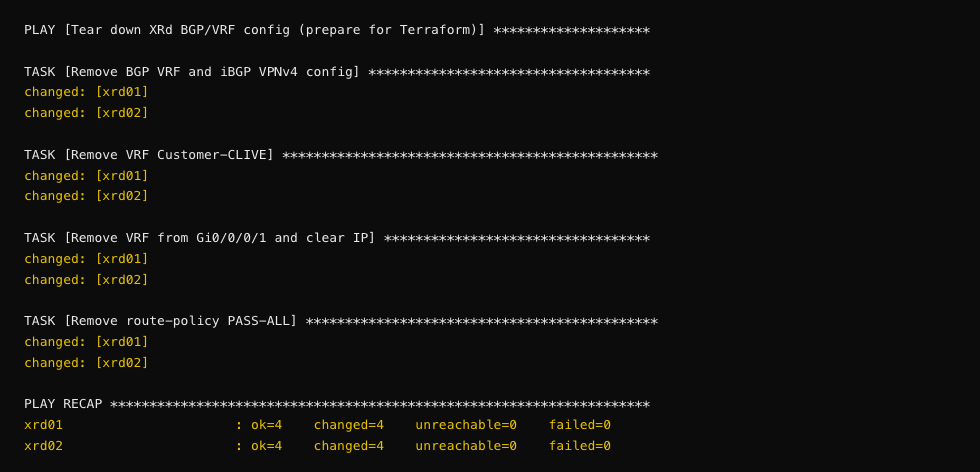
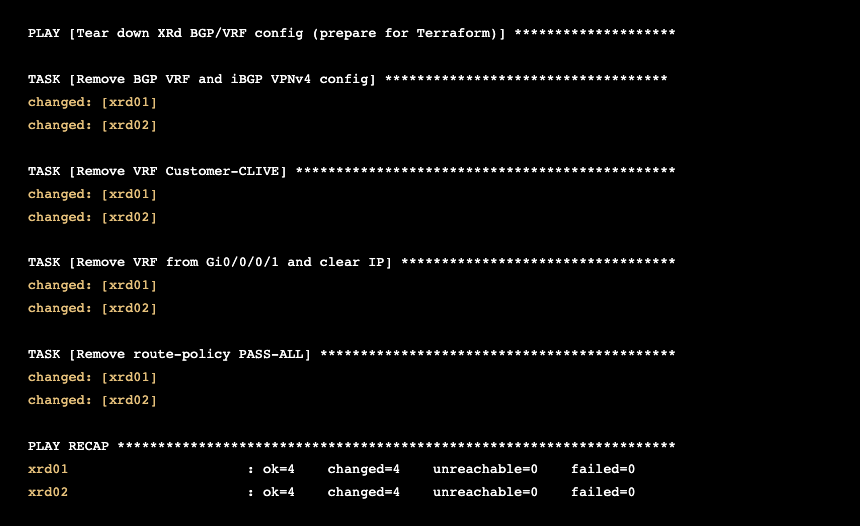
v1.1.15 — Fix task4-teardown-output colors to match style guide

diff --git a/images/task4-teardown-output.html b/images/task4-teardown-output.html
@@ -1,0 +1,42 @@
+<!DOCTYPE html>
+<html lang="en">
+<head>
+<meta charset="UTF-8" />
+<meta name="viewport" content="width=1200" />
+<title>task4-teardown-output</title>
+<style>
+  @import url('https://fonts.googleapis.com/css2?family=JetBrains+Mono:wght@400;600&display=swap');
+  * { box-sizing: border-box; margin: 0; padding: 0; }
+  html, body { overflow: hidden; }
+  body { background: #000000; font-family: 'JetBrains Mono', 'Courier New', monospace; }
+  .terminal { background: #000000; width: 860px; padding: 22px 28px 22px 28px; font-size: 13.5px; line-height: 1.7; }
+  .wh  { color: #ffffff; }
+  .chg { color: #e5c07b; }
+</style>
+</head>
+<body>
+<div class="terminal">
+<pre><span class="wh">PLAY [Tear down XRd BGP/VRF config (prepare for Terraform)] ********************
+
+TASK [Remove BGP VRF and iBGP VPNv4 config] ***********************************</span>
+<span class="chg">changed: [xrd01]
+changed: [xrd02]</span>
+
+<span class="wh">TASK [Remove VRF Customer-CLIVE] ***********************************************</span>
+<span class="chg">changed: [xrd01]
+changed: [xrd02]</span>
+
+<span class="wh">TASK [Remove VRF from Gi0/0/0/1 and clear IP] **********************************</span>
+<span class="chg">changed: [xrd01]
+changed: [xrd02]</span>
+
+<span class="wh">TASK [Remove route-policy PASS-ALL] ********************************************</span>
+<span class="chg">changed: [xrd01]
+changed: [xrd02]</span>
+
+<span class="wh">PLAY RECAP *********************************************************************</span>
+<span class="chg">xrd01</span>                      <span class="wh">: ok=4    changed=4    unreachable=0    failed=0</span>
+<span class="chg">xrd02</span>                      <span class="wh">: ok=4    changed=4    unreachable=0    failed=0</span></pre>
+</div>
+</body>
+</html>

diff --git a/CHANGELOG.md b/CHANGELOG.md
@@ -18,6 +18,19 @@ primer documents into dedicated files. Added student lab access guide.
 
 ---
 
+### 1.1.15 — Fix task4-teardown-output to Match Style Guide
+
+Rebuilt `task4-teardown-output` from scratch — original PNG had a dark grey
+background instead of `#000000` and incorrect yellow values. Created missing
+HTML source file.
+
+| File | Description |
+|------|-------------|
+| `images/task4-teardown-output.html` | Created (was missing) — Ansible teardown output |
+| `images/task4-teardown-output.png` | Corrected colors: `#000000` bg, `#e5c07b` changed, `#ffffff` headers |
+
+---
+
 ### 1.1.14 — Style-Guide Terminal Images for Ansible Primer and Git Primer
 
 Converted fenced code blocks to styled HTML→PNG images. Removed `[Lab Guide]`
